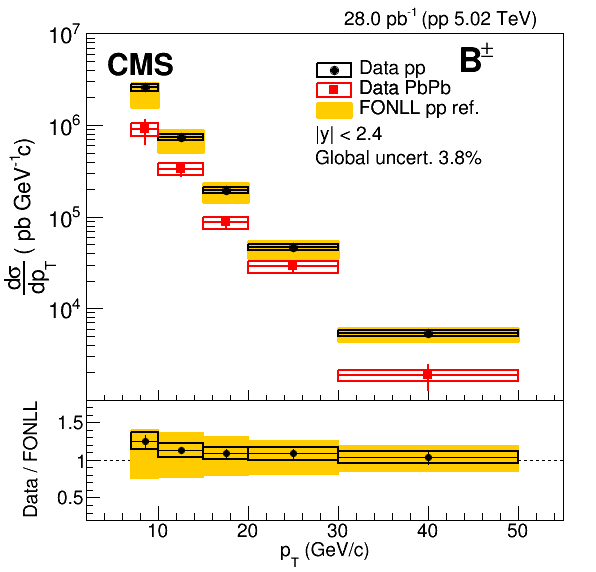
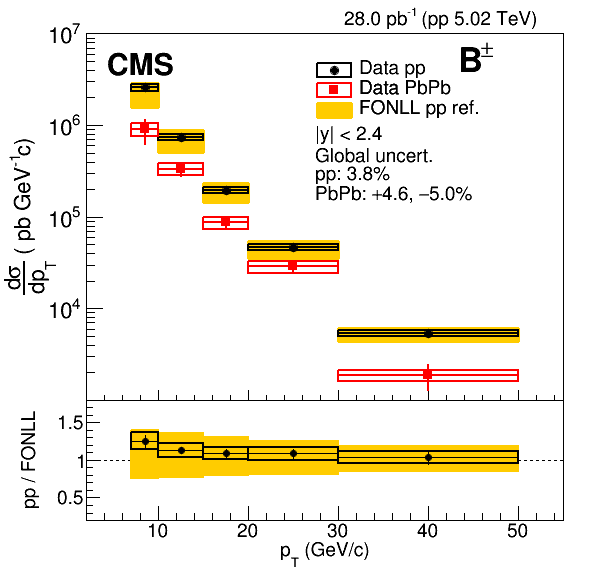
update

Changed region(s): [[0.5134, 0.2675, 0.8154, 0.3566], [0.0302, 0.7133, 0.0604, 0.9213]]

diff --git a/CrossSection/CrossSectionRatio.C b/CrossSection/CrossSectionRatio.C
@@ -219,7 +219,7 @@ void CrossSectionRatio(TString inputFONLL="ROOTfiles/output_inclusiveDd0meson_5T
 	texGlobal->SetTextFont(42);
 	texGlobal->SetTextSize(0.05*tpadr);
 	texGlobal->SetLineWidth(2);
-	texGlobal->Draw();
+	if(!addpbpb) texGlobal->Draw();
 
 	TLegend* leg_CS = new TLegend(0.52,1-(1-0.70)*tpadr,0.85,1-(1-0.80)*tpadr);
 	leg_CS->SetBorderSize(0);
@@ -251,6 +251,24 @@ void CrossSectionRatio(TString inputFONLL="ROOTfiles/output_inclusiveDd0meson_5T
 	    leg_CS->AddEntry(gaeBplusReference,"FONLL pp ref.","f");//PAS
 	    leg_CS->Draw("same");
 	    hemptySigma->GetYaxis()->SetTitle("#frac{d#sigma}{dp_{T}} ( pb GeV^{-1}c)");
+		texGlobal = new TLatex(0.53,0.594,Form("Global uncert."));
+		TLatex* texGlobal_pp = new TLatex(0.53,0.55,Form("pp: %.1f%s",normalizationUncertaintyForPP(),texper.Data()));
+		TLatex* texGlobal_PbPb = new TLatex(0.53,0.50,Form("PbPb: #plus%.1f, #minus%.1f%s",normalizationUncertaintyForPbPb(1),normalizationUncertaintyForPbPb(0),texper.Data()));
+	    texGlobal->SetNDC();
+	    texGlobal->SetTextFont(42);
+	    texGlobal->SetTextSize(0.05*tpadr);
+	    texGlobal->SetLineWidth(2);
+	    texGlobal->Draw();
+	    texGlobal_pp->SetNDC();
+	    texGlobal_pp->SetTextFont(42);
+	    texGlobal_pp->SetTextSize(0.05*tpadr);
+	    texGlobal_pp->SetLineWidth(2);
+	    texGlobal_pp->Draw();
+	    texGlobal_PbPb->SetNDC();
+	    texGlobal_PbPb->SetTextFont(42);
+	    texGlobal_PbPb->SetTextSize(0.05*tpadr);
+	    texGlobal_PbPb->SetLineWidth(2);
+	    texGlobal_PbPb->Draw();
 	}
 
 	cSigma->cd();
@@ -292,6 +310,10 @@ void CrossSectionRatio(TString inputFONLL="ROOTfiles/output_inclusiveDd0meson_5T
 		gaeRatioCrossFONLLunity->Draw("5same");
 		gaeRatioCrossFONLLstat->Draw("epsame");
 		gaeRatioCrossFONLLsyst->Draw("5same");
+	}
+
+    if(addpbpb){
+	    hemptyRatio->GetYaxis()->SetTitle("pp / FONLL");
 	}
 
 	TString _postfix = "";
